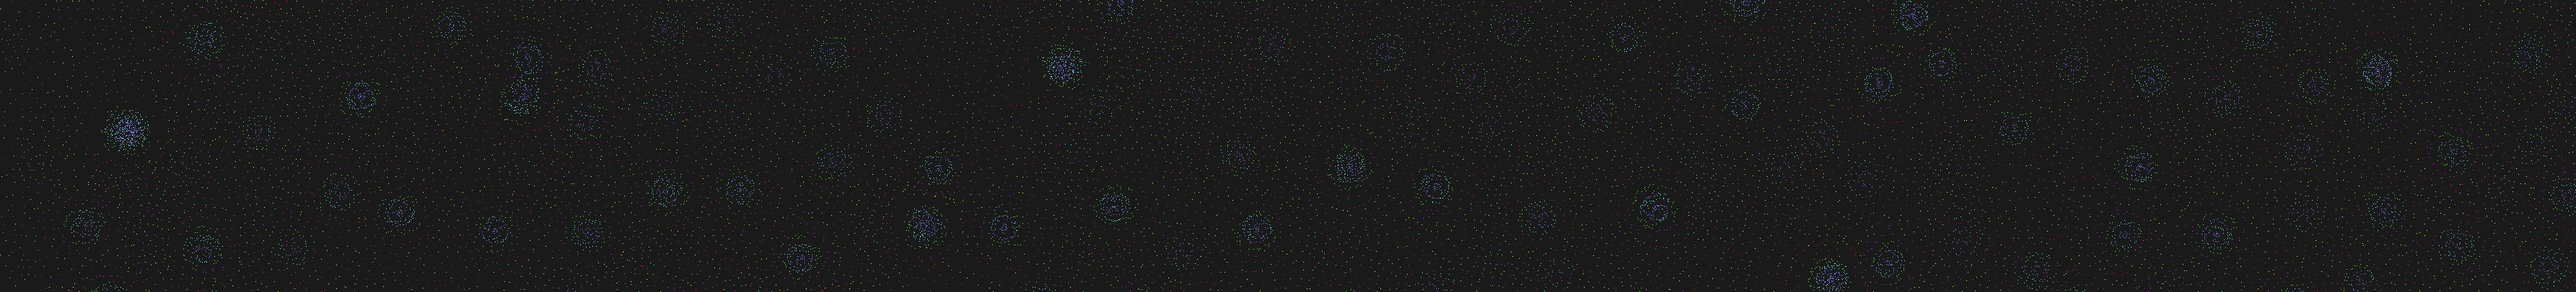
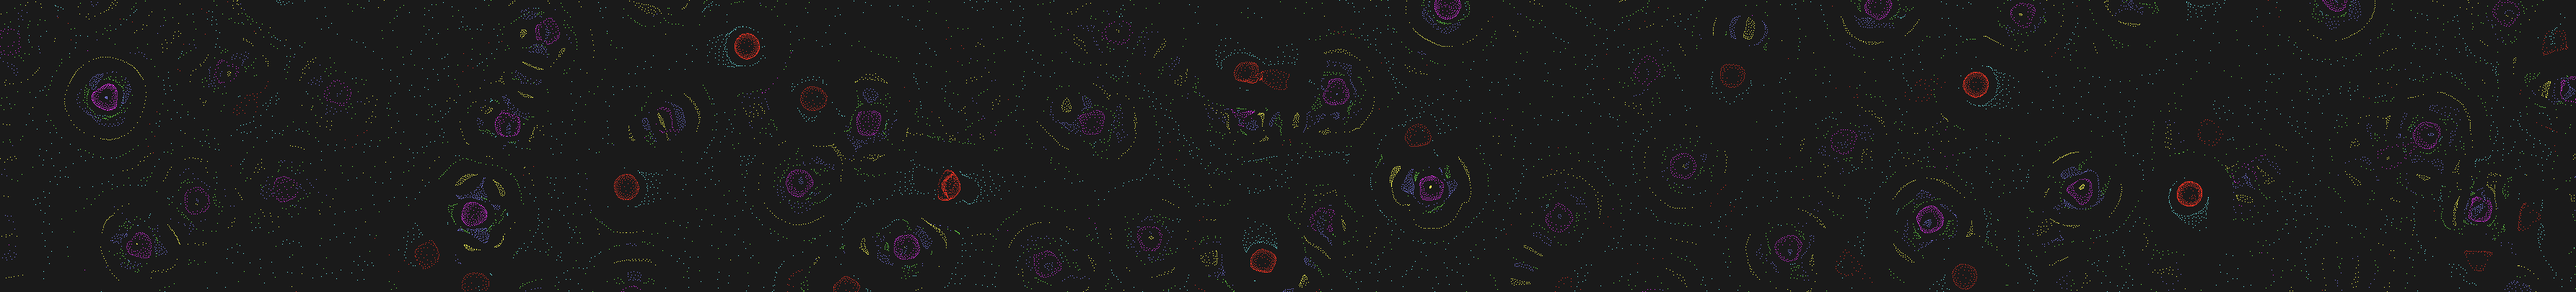
update screen

Changed region(s): [[0.995, 0.266, 1.0, 0.3547], [0.8395, 0.6207, 0.8706, 0.6502], [0.5286, 0.5911, 0.5597, 0.6207]]

diff --git a/src/pages/particle-life-gpu/index.tsx b/src/pages/particle-life-gpu/index.tsx
@@ -79,10 +79,10 @@ async function start(
 	const width = ctx.canvas.width
 	const height = ctx.canvas.height
 
-	const repulsionRange = 35
-	const attractionRange = 26
+	const repulsionRange = 30
+	const attractionRange = 30
 	const repulsionStrength = 30
-	const attractionStrength = 30
+	const attractionStrength = 40
 
 	const cellSize = repulsionRange + attractionRange
 	const widthDivisions = Math.ceil(width / cellSize)

diff --git a/src/router.ts b/src/router.ts
@@ -236,7 +236,7 @@ export const ROUTES = {
 			image: particle_life_gpu_image
 		},
 		git: {
-			lastModified: 1762619297000,
+			lastModified: 1762621979000,
 			firstAdded: 1762551884000
 		},
 	},
